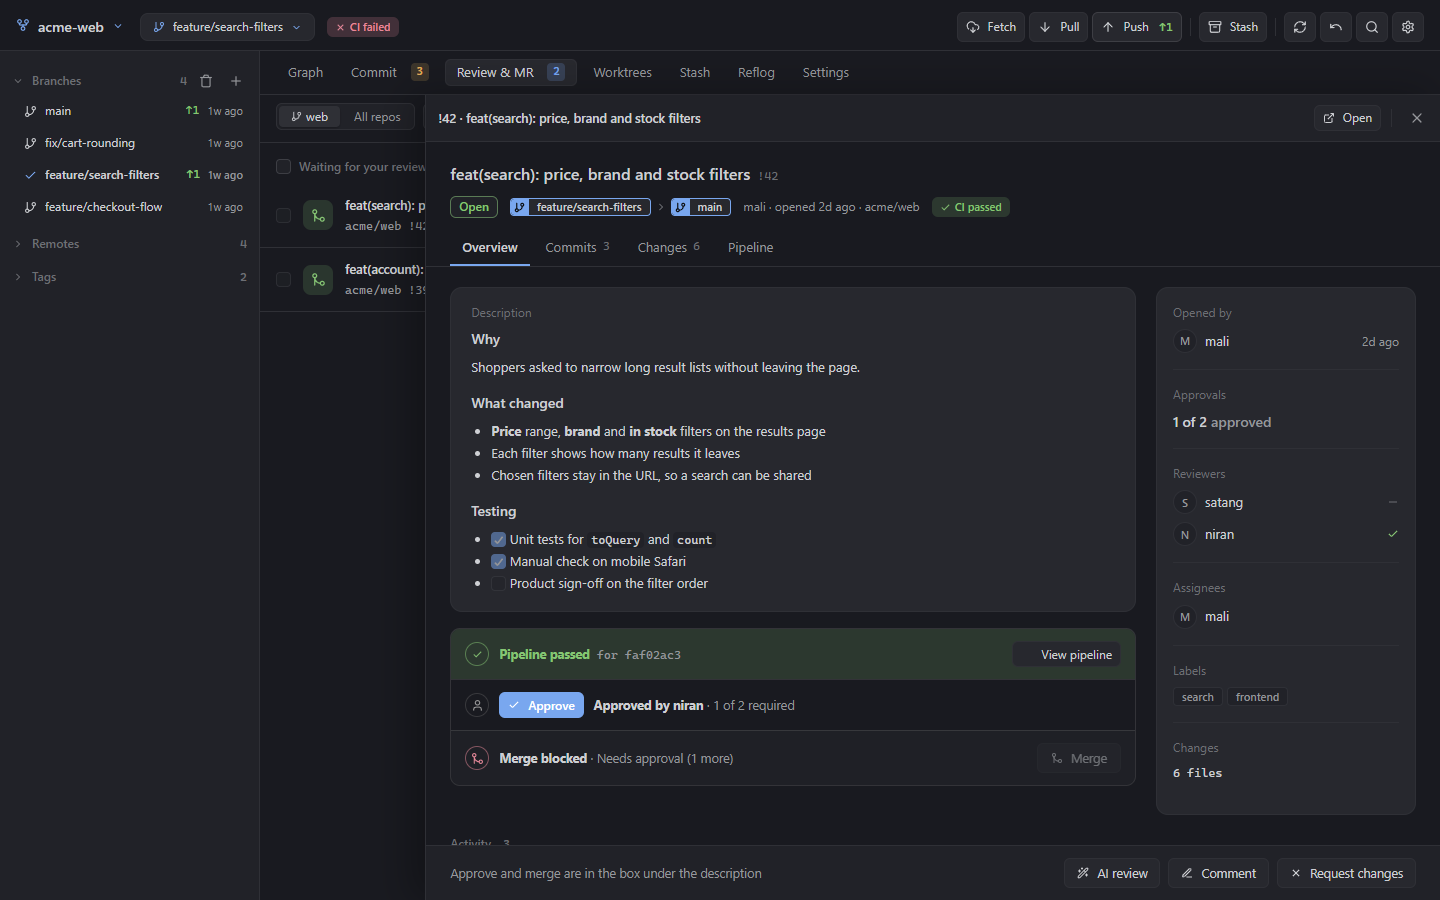
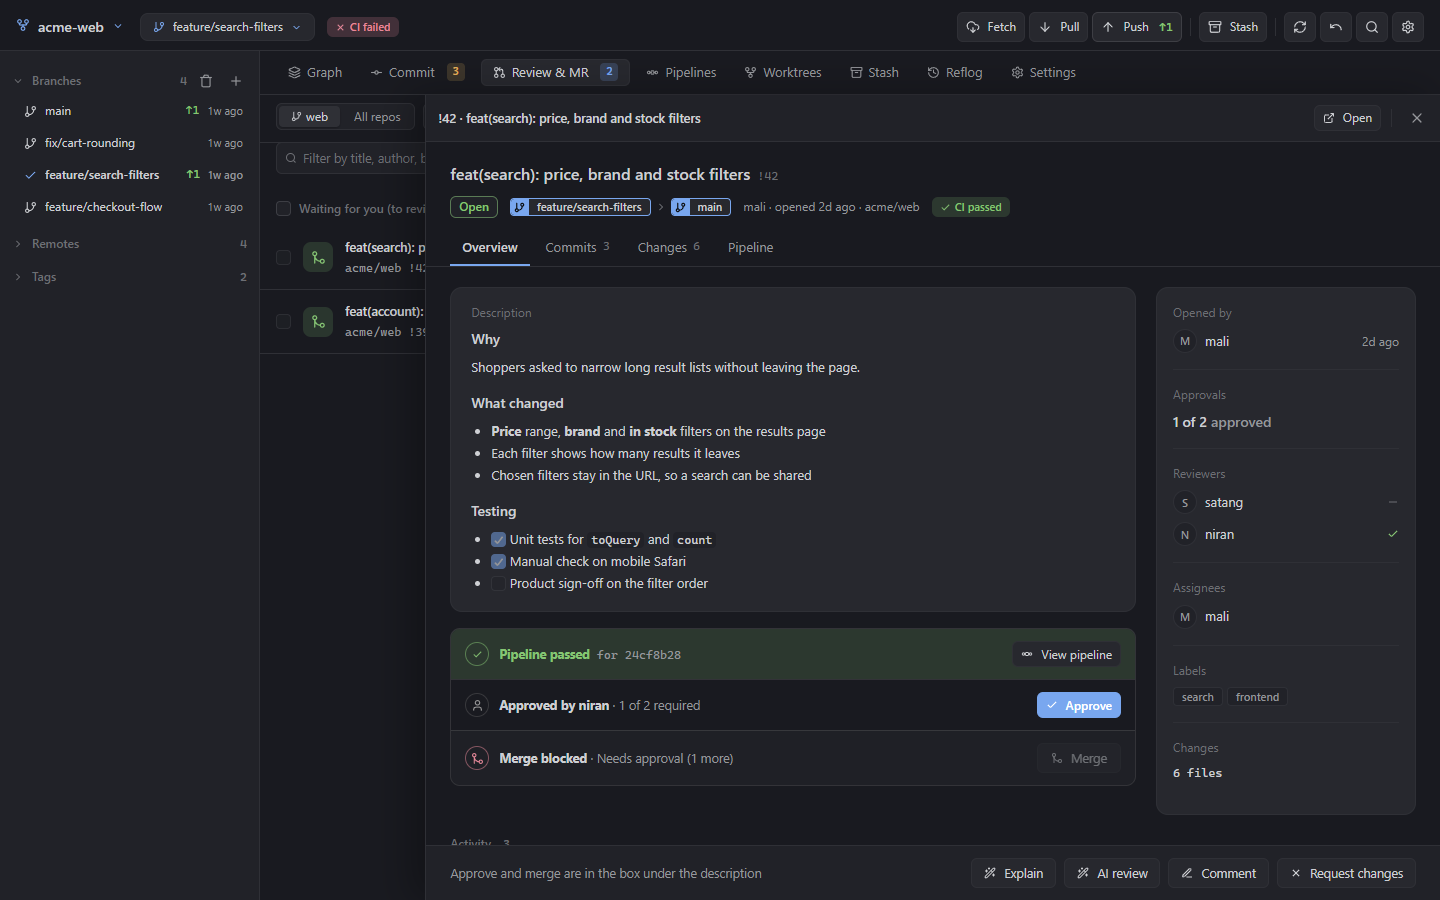
Release 0.8.5: marketplace page and README show the new features (AI, conflicts, rebase, approve and merge, Pipelines tab); new screenshots and posters from the current app, the Ctrl+K poster replaced by the Pipelines tab

diff --git a/README.md b/README.md
@@ -36,15 +36,17 @@ straight to a shared main branch is pointed out first. **Ctrl+Z** undoes the las
 ![The Commit tab: changed files on the left, the diff on the right](assets/screenshots/commit.png)
 
 ### Review merge requests
-**Review & MR** has three tabs: **To review** (waiting for you: asked to review or assigned, and not approved
-by you yet), **Opened by me** and **All open**, each with its count. Approve or Merge right from the list, or tick
-several and approve or merge them together; an approved one leaves To review, a merged one leaves the list.
+**Review & MR** has three tabs: **To review** (asked to review or assigned to you), **Opened by me** and **All**;
+the count is what still waits for your approval, and it shows as soon as a project opens. Search, filter by project
+or label, and see new comments since you last looked. Approve or merge right from the list, or tick several and do
+them together. An approved one stays, marked **Approved · waiting merge**; one with conflicts is marked
+**Conflicts**; while its pipeline runs the button reads **Merge when CI passes**. Only a real merge removes it.
 
 Click one to read it like on GitHub or GitLab: the description, reviewers and approvals, the activity with inline
 comments, its commits and changes. Under the description sits the merge box, laid out like GitLab's: the
-pipeline, the approvals with **Approve** (or **Revoke approval**), then **Merge** with *Delete source branch*
-and *Squash commits*, or the reason it cannot be merged yet (and **Set to auto-merge** while the pipeline runs).
-**AI review**, **Comment** and **Request changes** are at the bottom.
+pipeline, the approvals with **Approve** on the right (or **Revoke**), then **Merge now** with *Delete source
+branch* and *Squash commits* (or **Merge when pipeline passes**), or the reason it cannot be merged yet.
+**Explain**, **AI review**, **Comment** and **Request changes** are at the bottom.
 
 ![A merge request's detail page with description, reviewers, approvals and activity](assets/screenshots/merge-request.png)
 
@@ -76,11 +78,17 @@ pipeline without leaving Orca. Works with GitHub Actions and GitLab CI.
 
 ![A failed GitLab job's log with its error lines highlighted](assets/screenshots/pipeline.png)
 
+### Every pipeline on one page
+The **Pipelines** tab lists the latest runs of every branch, laid out like GitLab's: the status with how long it
+took, the commit's message, what started it (push, merge request, schedule, by hand), the branch, tag or merge
+request (as !142), each stage as a dot, and who ran it. Filter by running, failed or passed, or by text; it
+updates by itself while runs go on, and a click opens the run's jobs and logs.
+
+![The Pipelines tab with every branch's runs, their stages and who started them](assets/screenshots/pipelines.png)
+
 ### Work by keyboard
 **Ctrl+K** opens every command by name (fetch, pull, push, stash, new branch, any tab). In the graph,
-↑ ↓ (or j k) move, Enter opens, / searches and Esc closes.
-
-![The command palette filtering to pull and push](assets/screenshots/commands.png)
+↑ ↓ (or j k) move, Enter opens, / searches and Esc closes. **Ctrl+Z** undoes the last action.
 
 ### And also
 - **Fetch, Pull, Push** show how many commits wait (↑ green to push, ↓ amber to pull, red when the branch
